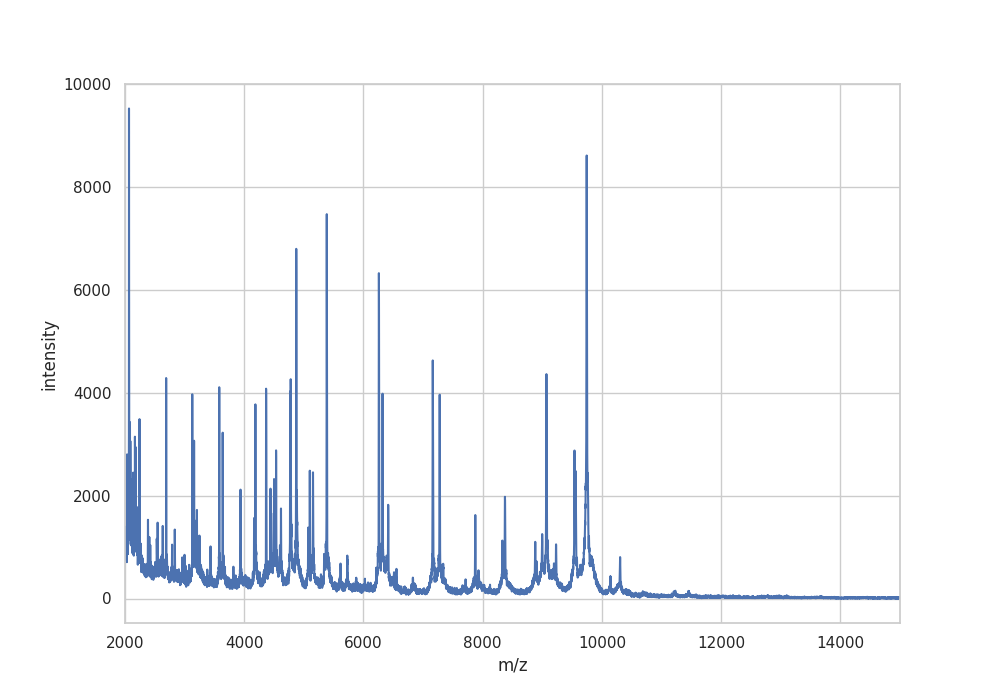
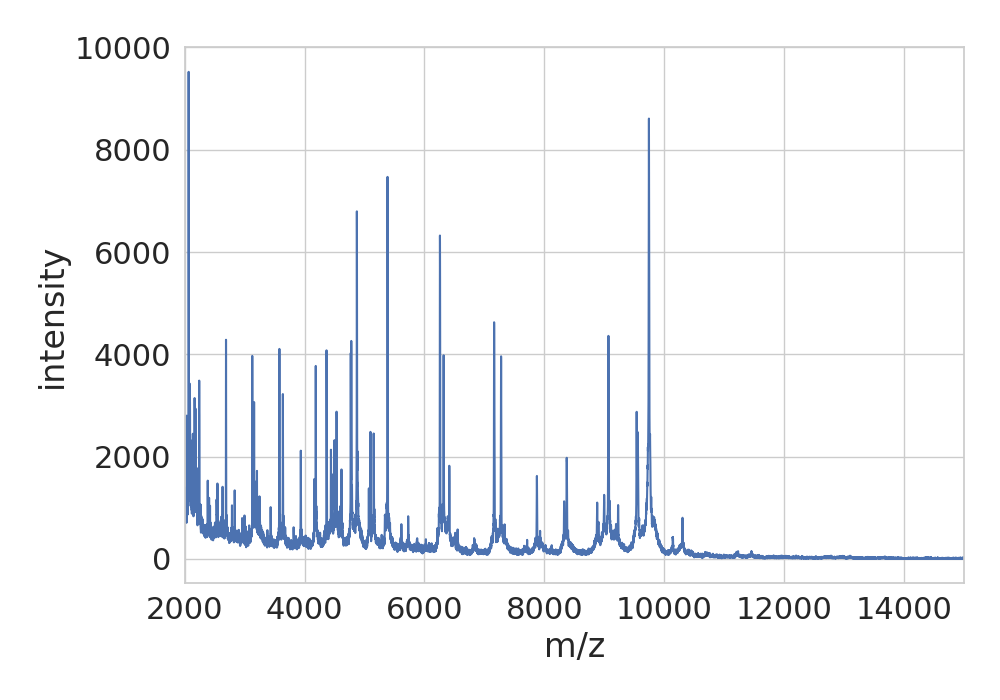
adjust font scale

diff --git a/amr_maldi_ml/plot_single_spectra.py b/amr_maldi_ml/plot_single_spectra.py
@@ -41,13 +41,17 @@ if __name__=='__main__':
     
     raw_spectrum = load_single_raw_spectrum(pair, '2018', 'DRIAMS-A')
     
-    sns.set(style='whitegrid')
+    sns.set(
+        style='whitegrid',
+        font_scale=2,
+                )
     fig, ax = plt.subplots(figsize=(10,7))
     
     ax.plot(raw_spectrum[:,0], raw_spectrum[:,1])
     ax.set_xlim(2000,15000)
     ax.set_ylabel('intensity')
     ax.set_xlabel('m/z')    
-
+    
+    plt.tight_layout()
     plt.savefig('./plots/example_spectra.png')
 
